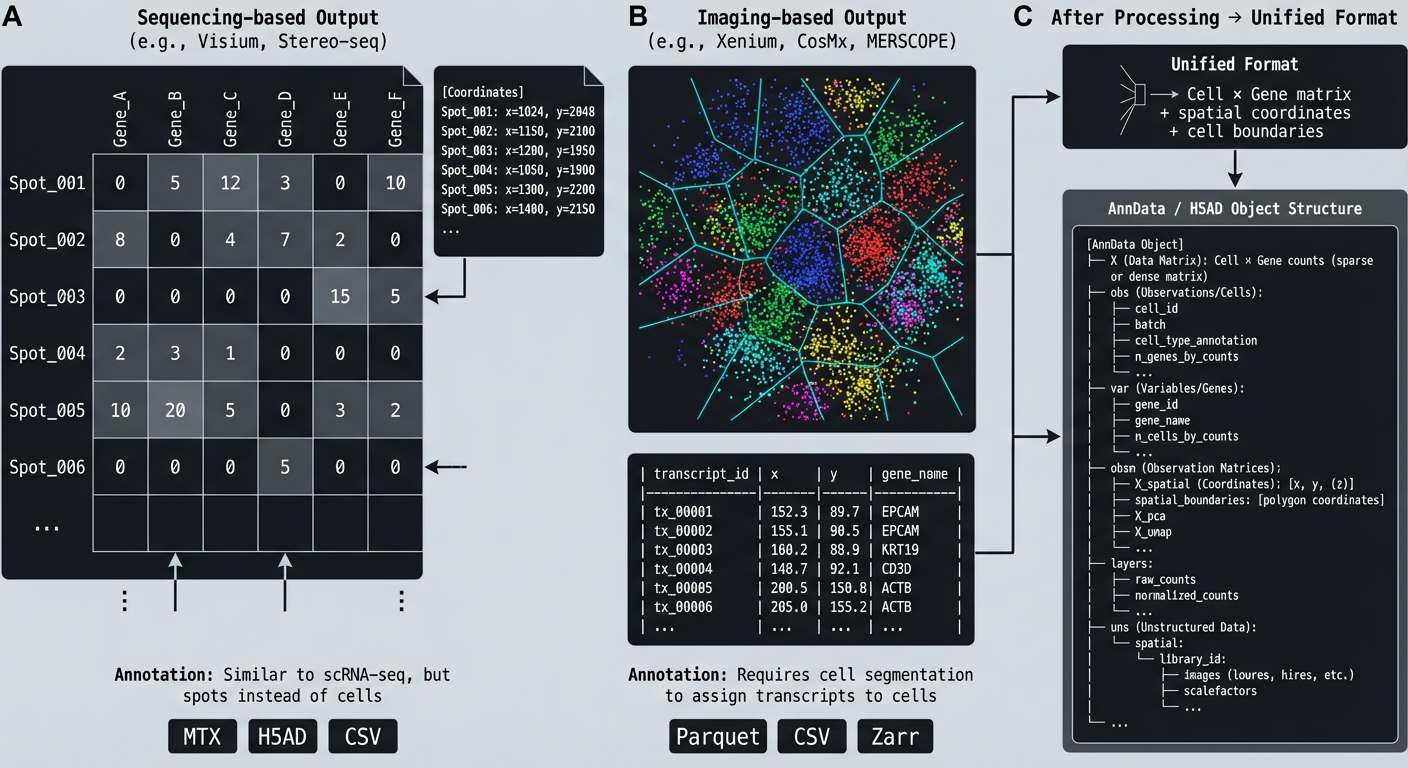
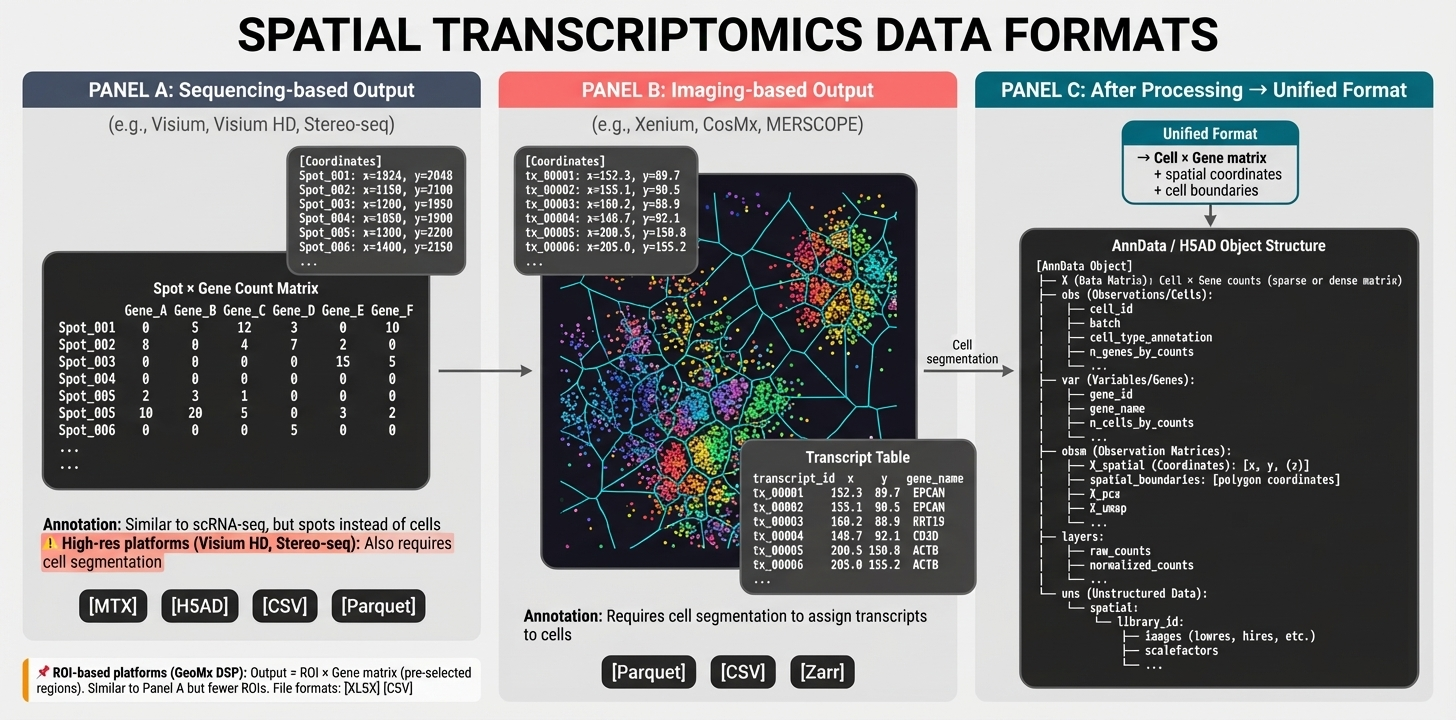
fix errors

diff --git a/ai4bio-concepts/single-cell-analysis/spatial-transcriptomics-technologies.html b/ai4bio-concepts/single-cell-analysis/spatial-transcriptomics-technologies.html
@@ -596,8 +596,8 @@
             <div class="figure-container">
                 <img src="figures/Spatial-Fig1.jpeg" alt="Evolution of Spatial Transcriptomics Platforms Timeline">
                 <p class="figure-caption">
-                    <strong>Figure 1: Historical Timeline of Platform Development.</strong> 
-                    The field evolved along two parallel tracks: sequencing-based methods (blue, top) beginning with the original Spatial Transcriptomics in 2016, through Visium and Stereo-seq, to Visium HD in 2023; and imaging-based methods (orange, bottom) starting with MERFISH publication, leading to commercial platforms Xenium, CosMx, and MERSCOPE in 2021-2022. Recent advances include FFPE compatibility and multi-modal protein + RNA capabilities.
+                    <strong>Figure 1. Timeline of spatial transcriptomics technology development.</strong>
+                    Upper track (teal): sequencing-based methods from original ST (2016) through Visium, Slide-seq, Seq-Scope (2021), Stereo-seq (2022), to Visium HD (2023). Lower track (orange-coral): imaging-based methods from MERFISH foundation through STARmap, seqFISH+, MERSCOPE, Xenium, and CosMx. Gold stars indicate breakthroughs. Bottom scale shows resolution progression from 100μm to subcellular.
                 </p>
             </div>
         </section>
@@ -680,8 +680,8 @@
             <div class="figure-container">
                 <img src="figures/Spatial-Fig2.jpeg" alt="Spatial Transcriptomics Platforms Comparison Diagram">
                 <p class="figure-caption">
-                    <strong>Figure 2: Platform Classification by Resolution and Gene Coverage.</strong> 
-                    Comprehensive comparison of spatial transcriptomics platforms organized by spatial resolution (y-axis: subcellular to multi-cell) and gene coverage (x-axis: targeted panels to whole transcriptome). Imaging-based platforms (orange) offer subcellular resolution with targeted panels, while sequencing-based platforms (blue) provide whole transcriptome coverage at varying resolutions.
+                    <strong>Figure 2. Platform classification by spatial resolution (y-axis) and gene coverage (x-axis).</strong>
+                    Upper left (coral): imaging-based platforms (Xenium, CosMx, MERSCOPE, STARmap) with subcellular resolution and targeted panels. Upper right (teal): high-resolution sequencing (Stereo-seq, Seq-Scope, Visium HD, HDST) with whole transcriptome. Middle right (golden): near single-cell sequencing (Slide-seqV2). Lower right (light teal): classic sequencing (Visium, GeoMx WTA). Lower left: ROI-based targeted (GeoMx panel mode). Stars denote subcellular + whole transcriptome breakthroughs.
                 </p>
             </div>
         </section>
@@ -695,16 +695,16 @@
             <div class="figure-container">
                 <img src="figures/Spatial-Fig3.jpeg" alt="Spatial Resolution Comparison">
                 <p class="figure-caption">
-                    <strong>Figure 3: Understanding Spatial Resolution Across Platforms.</strong> 
-                    Visual comparison of resolution scales: GeoMx DSP ROI captures multiple cells (~100μm), Visium spots contain 5-10 cells (~55μm), Visium HD/Stereo-seq bins offer single-cell resolution, and imaging-based platforms (Xenium, CosMx, MERSCOPE) achieve subcellular resolution (&lt;1μm) with individual transcript detection.
+                    <strong>Figure 3. Visual comparison of spatial resolution from multi-cell regions to individual transcripts.</strong>
+                    Left to right: GeoMx DSP ROI (50-600μm, 50-100+ cells), Visium (55μm, 5-10 cells), Slide-seqV2 (10μm, 1-3 cells), Visium HD/HDST (2μm, single-cell), Stereo-seq/Seq-Scope (0.5μm, subcellular, ★), Xenium/CosMx/MERSCOPE (&lt;0.1μm, individual transcripts). Yellow outlines: sequencing-based; coral outlines: imaging-based. Sequencing platforms capture ~20K genes; imaging platforms detect 500-6,000 genes.
                 </p>
             </div>
 
             <div class="figure-container">
                 <img src="figures/Spatial-Fig4.jpeg" alt="Technical Workflows Comparison">
                 <p class="figure-caption">
-                    <strong>Figure 4: Sequencing-Based vs. Imaging-Based Workflows.</strong> 
-                    Left (blue): Sequencing-based methods capture RNA with spatial barcodes, perform library prep and NGS sequencing, outputting spot × gene count matrices. Right (orange): Imaging-based methods use fluorescent probe hybridization with cyclic imaging rounds and decoding algorithms, outputting (x, y, gene_id) coordinates for individual transcripts.
+                    <strong>Figure 4. Technical workflows across three approaches.</strong>
+                    Left (Array-based Capture): tissue permeabilization → mRNA capture on barcoded spots → reverse transcription → library prep → demultiplexing; output: Spot × Gene matrix. Center (In Situ Barcoding): spatial barcode sequencing → tissue overlay → mRNA capture → sequencing → high-resolution mapping; output: subcellular spatial matrix (★). Right (Imaging-based): probe hybridization → platform-specific detection (combinatorial/RCA/ISS) → cyclic imaging → barcode decoding → single-molecule localization; output: (x,y,gene_id) coordinates. Bottom table compares resolution, genes, output format, FFPE compatibility, and throughput.
                 </p>
             </div>
 
@@ -820,8 +820,8 @@
             <div class="figure-container">
                 <img src="figures/Spatial-Fig5.jpeg" alt="Platform Selection Decision Flowchart">
                 <p class="figure-caption">
-                    <strong>Figure 5: Platform Selection Decision Flowchart.</strong> 
-                    A practical guide for choosing the right spatial transcriptomics platform based on your research needs. Key decision points include: whole transcriptome vs. targeted panels, single-cell vs. spot-level resolution, protein + RNA requirements, FFPE sample compatibility, and ROI selection needs.
+                    <strong>Figure 5. Decision flowchart for platform selection.</strong>
+                    Starting from sample type: FFPE samples → subcellular (Xenium, CosMx, MERSCOPE), multi-cell ROI (GeoMx), or whole transcriptome (Visium HD). Fresh frozen → Discovery path by resolution: subcellular (Stereo-seq, Seq-Scope ★), single-cell (Visium HD, Slide-seqV2), multi-cell (Visium); Hypothesis-driven path → imaging platforms or GeoMx; Protein+RNA → CosMx, Xenium, GeoMx; Rare cells → GeoMx DSP. Quick reference table summarizes recommendations by experimental need.
                 </p>
             </div>
         </section>
@@ -1120,16 +1120,16 @@
             <div class="figure-container">
                 <img src="figures/Spatial-Fig6.jpeg" alt="Data Formats and Structures">
                 <p class="figure-caption">
-                    <strong>Figure 6: Data Formats and Unified Structure.</strong> 
-                    (A) Sequencing-based output: spot × gene count matrices with spatial coordinates (MTX, H5AD, CSV formats). (B) Imaging-based output: individual transcript coordinates requiring cell segmentation (Parquet, CSV, Zarr formats). (C) Both converge to a unified AnnData/H5AD format containing cell × gene matrices, spatial coordinates, cell boundaries, and metadata layers.
+                    <strong>Figure 6. Data output formats across platforms.</strong>
+                    Panel A (Sequencing-based): Spot × Gene count matrix with coordinates; high-res platforms require segmentation (⚠). Formats: MTX, H5AD, Parquet. Panel B (Imaging-based): transcript coordinate table (transcript_id, x, y, gene); requires cell segmentation. Formats: Parquet, CSV, Zarr. Panel C (Unified): all platforms converge to Cell × Gene matrix with spatial coordinates in AnnData/H5AD structure containing X (counts), obs (cell metadata), var (gene metadata), obsm (spatial coordinates), layers, and uns (images).
                 </p>
             </div>
 
             <div class="figure-container">
                 <img src="figures/Spatial-Fig7.jpeg" alt="Computational Challenges by Platform">
                 <p class="figure-caption">
-                    <strong>Figure 7: Platform-Specific Computational Challenges.</strong> 
-                    Visium (spot-level): deconvolution and scRNA-seq integration challenges. Visium HD/Stereo-seq: scalability issues with billions of data points and memory management. Imaging-based platforms: cell segmentation accuracy and transcript assignment errors. All platforms share common challenges including batch effects, normalization, and spatial statistics.
+                    <strong>Figure 7. Platform-specific computational challenges.</strong>
+                    Low-res Sequencing (Visium): deconvolution, reference integration; tools: cell2location, RCTD; difficulty: medium. High-res Sequencing (Visium HD, Stereo-seq): cell segmentation (⚠), scalability, binning strategy; tools: Cellpose, Baysor; difficulty: high. Imaging-based: cell segmentation, assignment errors (~5-15%), panel limitations; tools: Cellpose, Baysor, StarDist; difficulty: high. ROI-based (GeoMx): low sample size, cell mixtures in AOIs; difficulty: low-medium (computation), high (statistics). Shared challenges (all platforms): batch effects, normalization, spatial statistics, cell-cell interactions.
                 </p>
             </div>
 
